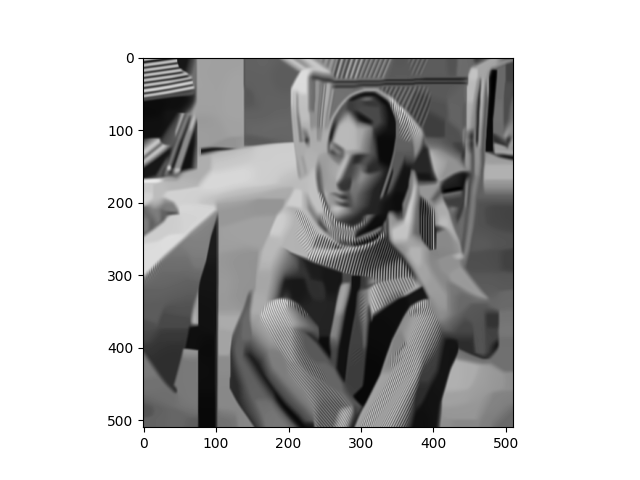
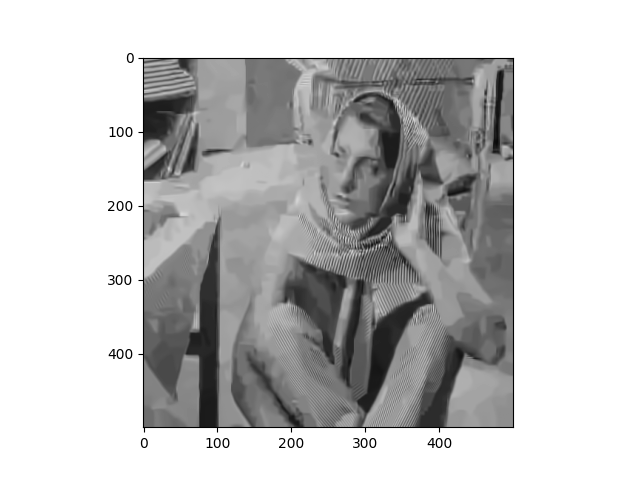
Added deblur

diff --git a/Project/poisson.py b/Project/poisson.py
@@ -3,28 +3,32 @@ import numpy as np
 from bm3d import bm3d, BM3DProfile
 import matplotlib.pyplot as plt
 import cv2 
+PEAK = 0.005
 
-def add_poisson_noise(x,lam):
-    return x + np.random.poisson(lam, X.shape)
+def add_poisson_noise(x):
+    x_new = np.zeros_like(x, dtype=np.float64)
+    x_new = np.random.poisson(x  * PEAK) / PEAK
+    return np.array(x_new, dtype=np.float64)
 def blur(x):
-    return cv2.GaussianBlur(x, (9,9), sigmaX=100, sigmaY=100)
+    return cv2.GaussianBlur(x, (9,9), sigmaX=20, sigmaY=20)
 
 def denoise(x,y,s,lam):
     k = 0
     u = (np.zeros_like(x, dtype=np.float64))
-    v = (np.zeros_like(x, dtype=np.float64))
+    v = (np.zeros_like(x, dtype=np.float64))  + 4.0*(np.sqrt(3.0/8.0)+1)
     while True:
         x1 = x
         x = ((lam*(v-u)-1)+np.sqrt((lam*(v-u)-1)**2+4*lam*y))/(2*lam)
         z = np.reshape(x+u, [s,s])
-        v = bm3d(z, np.sqrt(1/lam))
+        v = bm3d(z, np.sqrt(100/lam))
         v = np.reshape(v, -1)
         u = u+(x-v)
         if k%10 == 0:
             print(np.linalg.norm(x1-x))
         if np.linalg.norm(x1-x) < 0.1:
             break
-        if k > 50:
+        
+        if k > 30:
             break
         k = k+1
     return x
@@ -33,19 +37,19 @@ def deblur(x, y, s, lam):
     one = np.ones_like(x)
     k = 0
     u = (np.zeros_like(x, dtype=np.float64))
-    v = (np.zeros_like(x, dtype=np.float64))
+    v = (np.zeros_like(x, dtype=np.float64)) + 4.0*(np.sqrt(3.0/8.0)+1)
     while True:
         x1 = x
         k1 = 0
         while True:
             x2 = x
-            temp = cv2.GaussianBlur(np.array(np.reshape(x,[s,s]), np.uint8), (9, 9), sigmaX=10, sigmaY=10)
+            temp = cv2.GaussianBlur(np.array(np.reshape(x,[s,s]), np.uint8), (9, 9), sigmaX=1.6, sigmaY=1.6)
             temp = np.reshape(temp, -1)
             temp = y/np.array(temp, np.float64)
-            temp = cv2.GaussianBlur(np.array(np.reshape(temp,[s,s]),np.uint8), (9, 9), sigmaX=10, sigmaY=10)
-            temp = np.reshape(temp, -1)
-            temp1 = cv2.GaussianBlur(np.array(np.reshape(one,[s,s]),np.uint8), (9, 9), sigmaX=10, sigmaY=10)
-            temp1 = np.reshape(temp1, -1)
+            temp = cv2.GaussianBlur(np.array(np.reshape(temp,[s,s]),np.uint8), (9, 9), sigmaX=1.6, sigmaY=1.6)
+            temp = np.array(np.reshape(temp, -1), np.uint8)
+            temp1 = cv2.GaussianBlur(np.array(np.reshape(one,[s,s]),np.uint8), (9, 9), sigmaX=1.6, sigmaY=1.6)
+            temp1 = np.array(np.reshape(temp1, -1), np.uint8)
             x = x- ((-temp)+temp1 + lam*(x-v+u))
             if np.linalg.norm(x2-x)<1:
                 break
@@ -54,52 +58,73 @@ def deblur(x, y, s, lam):
                 break
         x = ((lam*(v-u)-1)+np.sqrt((lam*(v-u)-1)**2+4*lam*y))/(2*lam)
         z = np.reshape(x+u, [image1.shape[0], image1.shape[1]])
-        v = bm3d(z, np.sqrt(1/lam))
+        v = bm3d(z, np.sqrt(100/lam))
         v = np.reshape(v, -1)
         u = u+(x-v)
         if k%10 == 0:
             print(np.linalg.norm(x1-x))
         if np.linalg.norm(x1-x) < 0.1:
             break
+        #plt.imshow(np.reshape(x, [s,s]), cmap='grey')
+        #plt.savefig(f"deblur/cameraman/cam_100_iter{k}.png")
         if k > 40:
             break
         k = k+1
     return x
-#LOAD IMAGE
-image = Image.open("barbara.jpg")
-image1 = np.asarray(image)
-plt.imshow(image1, cmap="gray")
-plt.show()
-plt.savefig("barb_crop.png")
-X = np.reshape(image1,-1)
 
-lam = 100
-y = blur(np.reshape(X, [image1.shape[0], image1.shape[1]]))
-y1 = np.reshape(y, -1)
-y2 = add_poisson_noise(y1,lam)
-y3 = add_poisson_noise(X, lam*10)
+image_name = "images/cameraman.png"
+crop = 600 #Change accordingly
+shp = crop
+binning = False
 
-y_noise = np.reshape(y3, [image1.shape[0], image1.shape[1]])
-y_blur = np.reshape(y2, [image1.shape[0], image1.shape[1]])
+if __name__  == "__main__":
+    image = Image.open(image_name)
+    image1 = np.asarray(image)
+    if len(image1.shape)>2:
+        image1 = image1[:crop, :crop,1]
+    image1 = image1[:crop, :crop]
+    plt.imshow(image1, cmap="gray")
+    plt.show()
+    plt.savefig(f"{image_name[:-4]}_crop.png")
+    X = np.reshape(image1,-1)
+    lam = 0.25
+    y = blur(np.reshape(X, [image1.shape[0], image1.shape[1]]))
+    y1 = np.reshape(y, -1)
+    y2 = add_poisson_noise(y1)
+    y3 = add_poisson_noise(X)
 
-#SHOW NOISY IMAGE
-plt.imshow(y_noise, cmap="gray")
-plt.show()
-plt.savefig("./denoise/noise_barb.png")
+    y_noise = np.reshape(y3, [image1.shape[0], image1.shape[1]])
+    y_blur = np.reshape(y2, [image1.shape[0], image1.shape[1]])
 
-#SHOW BLURRY IMAGE
-plt.imshow(y_blur, cmap="gray")
-plt.show()
-plt.savefig("./deblur/blurry_barb.png")
-x_denoise = denoise(y3,y3,image1.shape[0],lam*10)
-x_deblur = deblur(y2, y2, image1.shape[0],lam)
+    #SHOW NOISY IMAGE
+    plt.imshow(y_noise, cmap="gray")
+    plt.show()
+    plt.savefig(f"./denoise/noise_{image_name[:-4]}.png")
 
-recon_denoise = np.reshape(x_denoise, [image1.shape[0], image1.shape[1]])
-recon_deblur = np.reshape(x_deblur, [image1.shape[0], image1.shape[1]])
+    #SHOW BLURRY IMAGE
+    plt.imshow(y_blur, cmap="gray")
+    plt.show()
+    plt.savefig(f"./deblur/blurry_{image_name[:-4]}.png")
 
-plt.imshow(recon_denoise, cmap="gray")
-plt.show()
-plt.savefig("./denoise/recon_barbara_denoise.png")
-plt.imshow(recon_deblur, cmap="gray")
-plt.show()
-plt.savefig("./deblur/recon_barbara_deblur.png")
+    if binning == True:
+        y4 = cv2.resize(y_noise, [crop//3, crop//3])
+        y3 = np.array(np.reshape(y4, -1), dtype = np.float64)
+        shp = crop//3
+
+    x_denoise = denoise(y3,y3,shp,lam*10)
+
+    if binning == True:
+        recon_1 = np.reshape(x_denoise, [crop//3, crop//3])   
+        recon_1 = cv2.resize(recon_1, [crop,crop])
+        x_denoise = np.array(np.reshape(recon_1, -1))
+    recon_denoise = np.reshape(x_denoise, [crop,crop])
+
+    plt.imshow(recon_denoise, cmap="gray")
+    plt.show()
+    plt.savefig(f"./denoise/recon_{image_name[:-4]}_denoise.png")
+
+    x_deblur = deblur(y2, y2, image1.shape[0],lam)
+    recon_deblur = np.reshape(x_deblur, [image1.shape[0], image1.shape[1]])
+    plt.imshow(recon_deblur, cmap="gray")
+    plt.show()
+    plt.savefig(f"./deblur/recon_{image_name[:-4]}_deblur.png")
